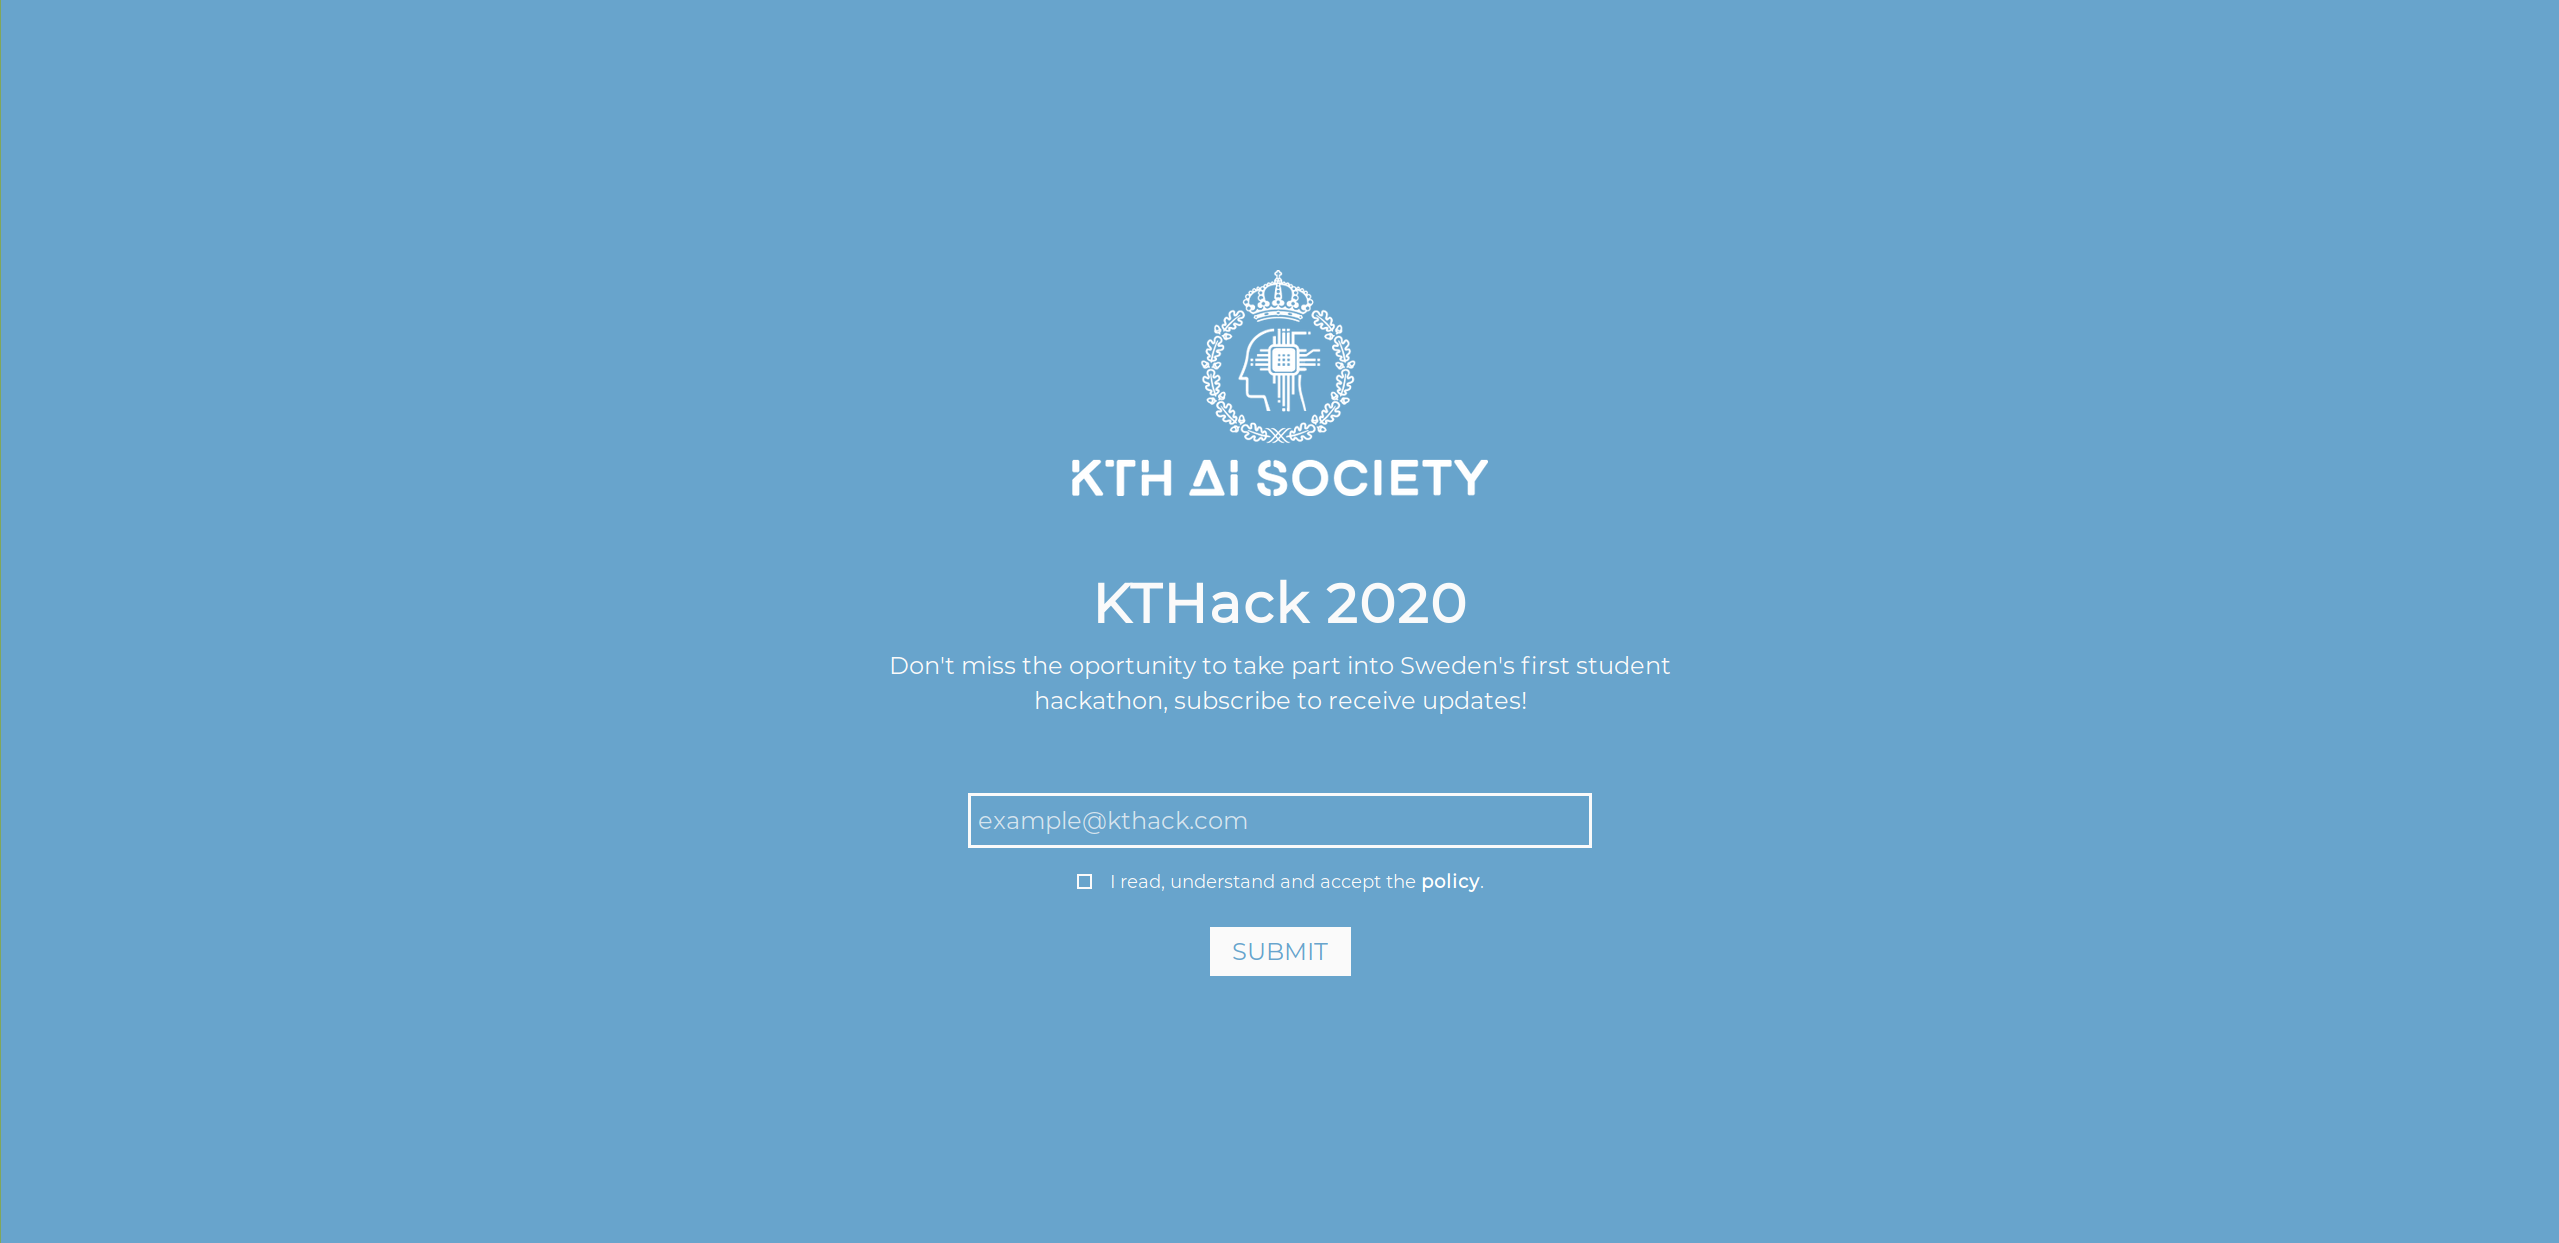
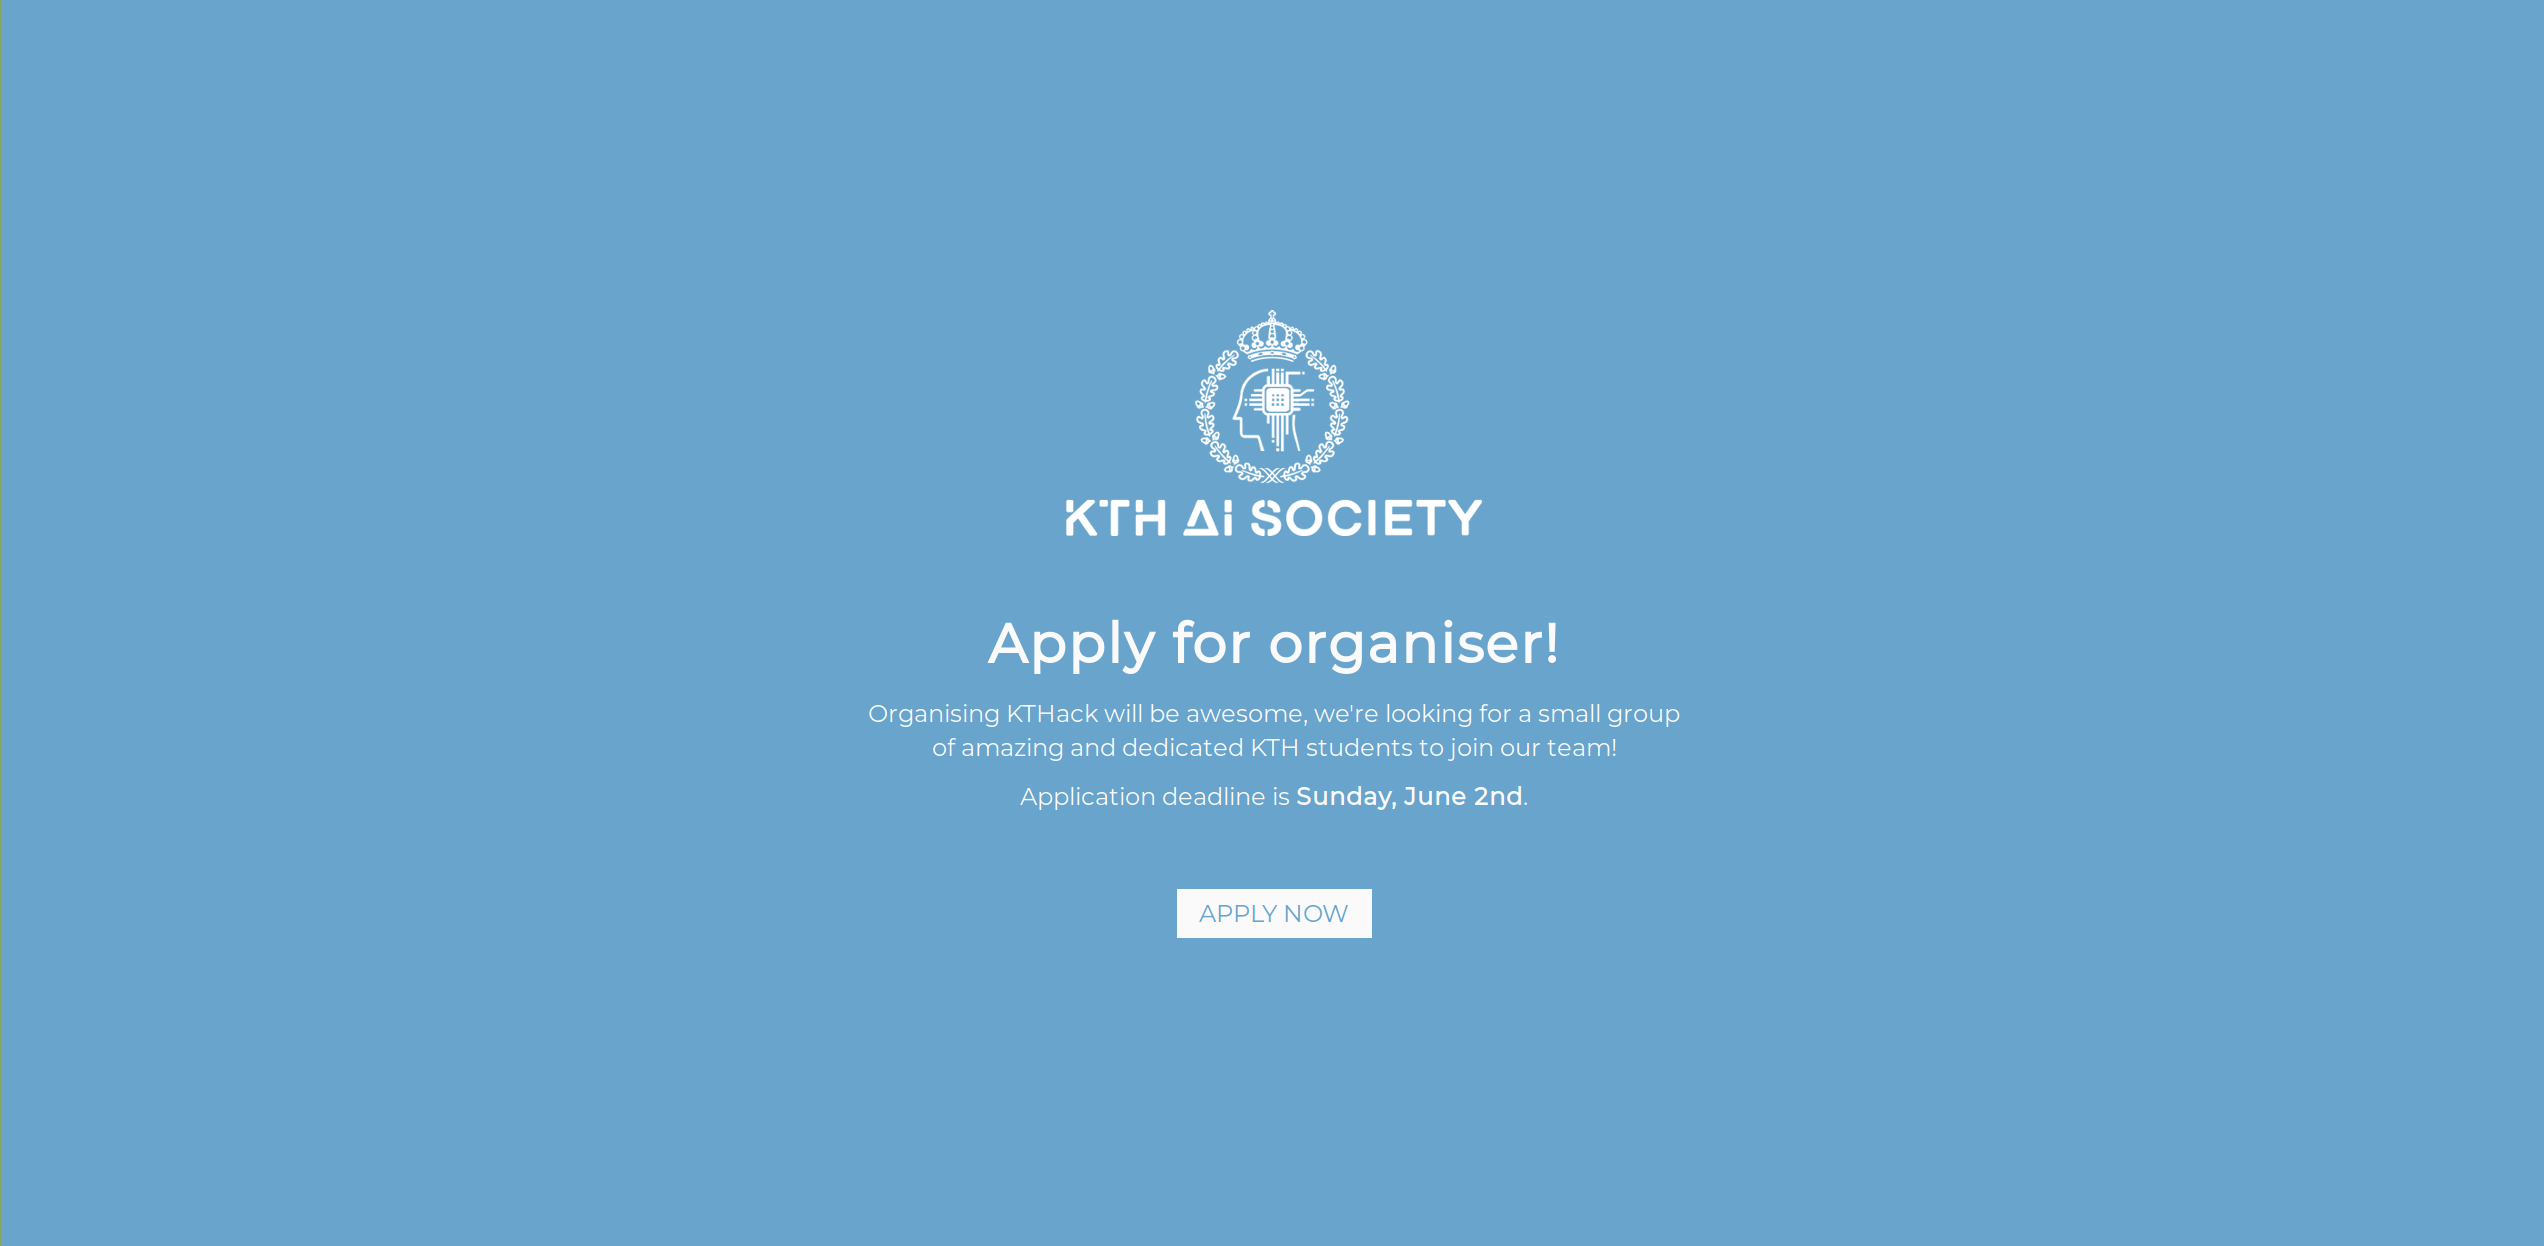
Change overview file

Changed region(s): [[0.3416, 0.4586, 0.6521, 0.6726], [0.4037, 0.214, 0.59, 0.428], [0.4347, 0.7031, 0.59, 0.7949]]

diff --git a/README.md b/README.md
@@ -1,7 +1,7 @@
 <p align="center">
   <img alt="KTHAIS" src="assets/img/logo.png" width="250px"/>
 </p>
-<h1 align="center">KTHack subscribe page</h1>
+<h1 align="center">KTHack join page</h1>
 <p align="center">
   <img alt="KTHAIS" src="overview.png" width="100%"/>
 </p>
@@ -12,7 +12,7 @@
 * MySQL
 
 ## Deploy 
-1. Clone repository to your computer with `git clone https://github.com/kthackais/subscribe && cd subscribe`
+1. Clone repository to your computer with `git clone https://github.com/kthackais/join && cd join`
 2. Install PHP and MySQL if needed
 3. Run `mysql < db/db.sql` to create the database
 4. Create user and set the password with `CREATE USER '[USERNAME]'@'localhost' IDENTIFIED BY '[PASSWORD]';`
